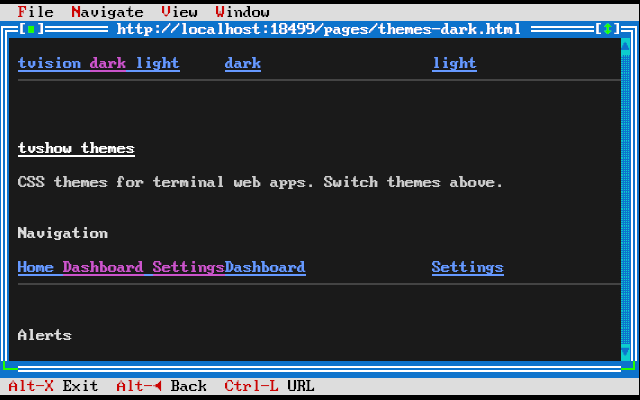
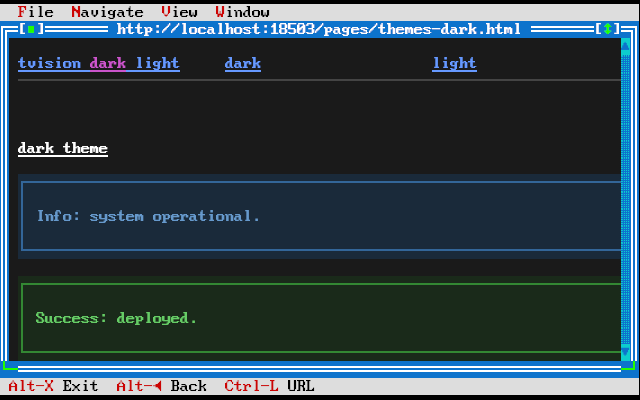
fix: theme demo layout — show alerts above fold, add color verification
Restructured theme showcase to put alerts, cards, buttons above fold
so themes are visually distinct in screenshots. Added integration test
verifying all three themes produce different bg colors. Added color
sample output to capture tool.

diff --git a/server/pages/themes.html b/server/pages/themes.html
@@ -1,7 +1,7 @@
 <!doctype html>
 <html>
 <head>
-<title>Theme showcase — tvision</title>
+<title>Theme: tvision</title>
 <link rel="stylesheet" href="/styles/tvision.css">
 </head>
 <body>
@@ -12,77 +12,37 @@
   <a href="/pages/themes-light.html">light</a>
 </div>
 
-<h1>tvshow themes</h1>
-<p>CSS themes for terminal web apps. Switch themes above.</p>
+<h1>tvision theme</h1>
 
-<h2>Navigation</h2>
-<div class="nav">
-  <a href="#">Home</a>
-  <a href="#">Dashboard</a>
-  <a href="#">Settings</a>
-  <a href="#">Help</a>
-</div>
+<div class="alert alert-info">Info: system operational.</div>
+<div class="alert alert-success">Success: deployed.</div>
+<div class="alert alert-warning">Warning: disk 80%.</div>
+<div class="alert alert-error">Error: DB connection lost.</div>
 
-<h2>Alerts</h2>
-<div class="alert alert-info">Info: system is operating normally.</div>
-<div class="alert alert-success">Success: changes saved.</div>
-<div class="alert alert-warning">Warning: disk usage above 80%.</div>
-<div class="alert alert-error">Error: connection to database lost.</div>
-
-<h2>Cards</h2>
 <div class="row">
   <div class="card grow">
-    <p class="card-title">Server status</p>
-    <p>CPU: 42% | Mem: 2.1G / 8G</p>
+    <p class="card-title">Server</p>
+    <p>CPU 42% | Mem 2.1G</p>
   </div>
   <div class="card grow">
-    <p class="card-title">Deployments</p>
-    <p>Last: 2h ago | Next: pending</p>
+    <p class="card-title">Deploy</p>
+    <p>Last: 2h ago</p>
   </div>
 </div>
 
-<h2>Buttons</h2>
 <div class="row">
   <div class="btn">Default</div>
   <div class="btn btn-primary">Primary</div>
   <div class="btn btn-danger">Danger</div>
 </div>
 
-<h2>Table</h2>
 <table>
 <tr><th>Service</th><th>Status</th><th>Uptime</th></tr>
 <tr><td>API</td><td>Running</td><td>14d 2h</td></tr>
-<tr><td>Worker</td><td>Running</td><td>14d 2h</td></tr>
-<tr><td>Scheduler</td><td>Stopped</td><td>-</td></tr>
+<tr><td>Worker</td><td>Stopped</td><td>-</td></tr>
 </table>
 
-<h2>Form</h2>
-<form action="/echo" method="get">
-  <div class="form-group">
-    <label class="form-label">Username</label>
-    <input type="text" value="">
-  </div>
-  <div class="form-group">
-    <label class="form-label">Role</label>
-    <select>
-      <option value="admin">Admin</option>
-      <option value="user">User</option>
-      <option value="viewer">Viewer</option>
-    </select>
-  </div>
-  <div class="form-group">
-    <input type="checkbox"> Enable notifications
-  </div>
-  <div class="btn btn-primary"><input type="submit" value="Save"></div>
-</form>
-
-<h2>Code</h2>
-<pre>$ tvshow http://localhost:8080/
-Fetching...
-200 OK (text/html, 1.2K)</pre>
-
-<hr>
-<p class="muted center">tvshow theme: tvision</p>
+<pre>$ tvshow http://localhost:8080/</pre>
 
 </body>
 </html>

diff --git a/server/pages/themes-light.html b/server/pages/themes-light.html
@@ -1,7 +1,7 @@
 <!doctype html>
 <html>
 <head>
-<title>Theme showcase — light</title>
+<title>Theme: light</title>
 <link rel="stylesheet" href="/styles/light.css">
 </head>
 <body>
@@ -12,77 +12,37 @@
   <a href="/pages/themes-light.html">light</a>
 </div>
 
-<h1>tvshow themes</h1>
-<p>CSS themes for terminal web apps. Switch themes above.</p>
+<h1>light theme</h1>
 
-<h2>Navigation</h2>
-<div class="nav">
-  <a href="#">Home</a>
-  <a href="#">Dashboard</a>
-  <a href="#">Settings</a>
-  <a href="#">Help</a>
-</div>
+<div class="alert alert-info">Info: system operational.</div>
+<div class="alert alert-success">Success: deployed.</div>
+<div class="alert alert-warning">Warning: disk 80%.</div>
+<div class="alert alert-error">Error: DB connection lost.</div>
 
-<h2>Alerts</h2>
-<div class="alert alert-info">Info: system is operating normally.</div>
-<div class="alert alert-success">Success: changes saved.</div>
-<div class="alert alert-warning">Warning: disk usage above 80%.</div>
-<div class="alert alert-error">Error: connection to database lost.</div>
-
-<h2>Cards</h2>
 <div class="row">
   <div class="card grow">
-    <p class="card-title">Server status</p>
-    <p>CPU: 42% | Mem: 2.1G / 8G</p>
+    <p class="card-title">Server</p>
+    <p>CPU 42% | Mem 2.1G</p>
   </div>
   <div class="card grow">
-    <p class="card-title">Deployments</p>
-    <p>Last: 2h ago | Next: pending</p>
+    <p class="card-title">Deploy</p>
+    <p>Last: 2h ago</p>
   </div>
 </div>
 
-<h2>Buttons</h2>
 <div class="row">
   <div class="btn">Default</div>
   <div class="btn btn-primary">Primary</div>
   <div class="btn btn-danger">Danger</div>
 </div>
 
-<h2>Table</h2>
 <table>
 <tr><th>Service</th><th>Status</th><th>Uptime</th></tr>
 <tr><td>API</td><td>Running</td><td>14d 2h</td></tr>
-<tr><td>Worker</td><td>Running</td><td>14d 2h</td></tr>
-<tr><td>Scheduler</td><td>Stopped</td><td>-</td></tr>
+<tr><td>Worker</td><td>Stopped</td><td>-</td></tr>
 </table>
 
-<h2>Form</h2>
-<form action="/echo" method="get">
-  <div class="form-group">
-    <label class="form-label">Username</label>
-    <input type="text" value="">
-  </div>
-  <div class="form-group">
-    <label class="form-label">Role</label>
-    <select>
-      <option value="admin">Admin</option>
-      <option value="user">User</option>
-      <option value="viewer">Viewer</option>
-    </select>
-  </div>
-  <div class="form-group">
-    <input type="checkbox"> Enable notifications
-  </div>
-  <div class="btn btn-primary"><input type="submit" value="Save"></div>
-</form>
-
-<h2>Code</h2>
-<pre>$ tvshow http://localhost:8080/
-Fetching...
-200 OK (text/html, 1.2K)</pre>
-
-<hr>
-<p class="muted center">tvshow theme: light</p>
+<pre>$ tvshow http://localhost:8080/</pre>
 
 </body>
 </html>

diff --git a/server/pages/themes-dark.html b/server/pages/themes-dark.html
@@ -1,7 +1,7 @@
 <!doctype html>
 <html>
 <head>
-<title>Theme showcase — dark</title>
+<title>Theme: dark</title>
 <link rel="stylesheet" href="/styles/dark.css">
 </head>
 <body>
@@ -12,77 +12,37 @@
   <a href="/pages/themes-light.html">light</a>
 </div>
 
-<h1>tvshow themes</h1>
-<p>CSS themes for terminal web apps. Switch themes above.</p>
+<h1>dark theme</h1>
 
-<h2>Navigation</h2>
-<div class="nav">
-  <a href="#">Home</a>
-  <a href="#">Dashboard</a>
-  <a href="#">Settings</a>
-  <a href="#">Help</a>
-</div>
+<div class="alert alert-info">Info: system operational.</div>
+<div class="alert alert-success">Success: deployed.</div>
+<div class="alert alert-warning">Warning: disk 80%.</div>
+<div class="alert alert-error">Error: DB connection lost.</div>
 
-<h2>Alerts</h2>
-<div class="alert alert-info">Info: system is operating normally.</div>
-<div class="alert alert-success">Success: changes saved.</div>
-<div class="alert alert-warning">Warning: disk usage above 80%.</div>
-<div class="alert alert-error">Error: connection to database lost.</div>
-
-<h2>Cards</h2>
 <div class="row">
   <div class="card grow">
-    <p class="card-title">Server status</p>
-    <p>CPU: 42% | Mem: 2.1G / 8G</p>
+    <p class="card-title">Server</p>
+    <p>CPU 42% | Mem 2.1G</p>
   </div>
   <div class="card grow">
-    <p class="card-title">Deployments</p>
-    <p>Last: 2h ago | Next: pending</p>
+    <p class="card-title">Deploy</p>
+    <p>Last: 2h ago</p>
   </div>
 </div>
 
-<h2>Buttons</h2>
 <div class="row">
   <div class="btn">Default</div>
   <div class="btn btn-primary">Primary</div>
   <div class="btn btn-danger">Danger</div>
 </div>
 
-<h2>Table</h2>
 <table>
 <tr><th>Service</th><th>Status</th><th>Uptime</th></tr>
 <tr><td>API</td><td>Running</td><td>14d 2h</td></tr>
-<tr><td>Worker</td><td>Running</td><td>14d 2h</td></tr>
-<tr><td>Scheduler</td><td>Stopped</td><td>-</td></tr>
+<tr><td>Worker</td><td>Stopped</td><td>-</td></tr>
 </table>
 
-<h2>Form</h2>
-<form action="/echo" method="get">
-  <div class="form-group">
-    <label class="form-label">Username</label>
-    <input type="text" value="">
-  </div>
-  <div class="form-group">
-    <label class="form-label">Role</label>
-    <select>
-      <option value="admin">Admin</option>
-      <option value="user">User</option>
-      <option value="viewer">Viewer</option>
-    </select>
-  </div>
-  <div class="form-group">
-    <input type="checkbox"> Enable notifications
-  </div>
-  <div class="btn btn-primary"><input type="submit" value="Save"></div>
-</form>
-
-<h2>Code</h2>
-<pre>$ tvshow http://localhost:8080/
-Fetching...
-200 OK (text/html, 1.2K)</pre>
-
-<hr>
-<p class="muted center">tvshow theme: dark</p>
+<pre>$ tvshow http://localhost:8080/</pre>
 
 </body>
 </html>

diff --git a/tests/integration/demo_pages_test.cpp b/tests/integration/demo_pages_test.cpp
@@ -3,6 +3,8 @@
 #include "tvshow/layout/types.hpp"
 #include "tvshow/net/cpp_http_client.hpp"
 #include "tvshow/net/http_client.hpp"
+#include "tvshow/render/chargrid.hpp"
+#include "tvshow/render/render.hpp"
 #include "tvshow/util/url.hpp"
 
 #include <doctest/doctest.h>
@@ -31,6 +33,32 @@ TEST_CASE("integration: typography page parses and lays out") {
     auto page = load_page(server.base_url() + "/pages/typography.html", Viewport{80, 24});
     REQUIRE(page.has_value());
     CHECK(page->doc.title == "Typography");
+}
+
+TEST_CASE("integration: theme CSS applies different background colors") {
+    const ServerFixture server;
+    auto tv = load_page(server.base_url() + "/pages/themes.html", Viewport{80, 25});
+    auto dk = load_page(server.base_url() + "/pages/themes-dark.html", Viewport{80, 25});
+    auto lt = load_page(server.base_url() + "/pages/themes-light.html", Viewport{80, 25});
+    REQUIRE(tv.has_value());
+    REQUIRE(dk.has_value());
+    REQUIRE(lt.has_value());
+
+    CHECK(tv->sheets.size() >= 1);
+    CHECK(dk->sheets.size() >= 1);
+    CHECK(lt->sheets.size() >= 1);
+
+    const auto grid_tv = tvshow::render::render(tv->box);
+    const auto grid_dk = tvshow::render::render(dk->box);
+    const auto grid_lt = tvshow::render::render(lt->box);
+
+    const auto bg_tv = grid_tv.at({5, 5}).attr.bg;
+    const auto bg_dk = grid_dk.at({5, 5}).attr.bg;
+    const auto bg_lt = grid_lt.at({5, 5}).attr.bg;
+
+    CHECK(bg_tv != bg_dk);
+    CHECK(bg_tv != bg_lt);
+    CHECK(bg_dk != bg_lt);
 }
 
 TEST_CASE("integration: 404 route renders an internal error page") {

diff --git a/client/src/capture_main.cpp b/client/src/capture_main.cpp
@@ -5,6 +5,7 @@
 #include "tvshow/render/render.hpp"
 
 #include <cstdlib>
+#include <iomanip>
 #include <iostream>
 #include <string>
 
@@ -59,6 +60,22 @@ int main(int argc, char* argv[]) {
         std::cout << '\n';
     }
     std::cout << std::string(static_cast<size_t>(cols), '-') << '\n';
+
+    // Color sample — find first non-space cell per row.
+    std::cout << "Color samples:\n";
+    for (int sr = 0; sr < std::min(grid.rows(), 45); ++sr) {
+        for (int sc = 0; sc < grid.cols(); ++sc) {
+            const auto c = grid.at({sc, sr});
+            if (c.cp > U' ') {
+                std::cout << "  row " << sr << " col " << sc << ": bg=#"
+                          << std::hex << std::setfill('0') << std::setw(6) << c.attr.bg
+                          << " fg=#" << std::setw(6) << c.attr.fg
+                          << " cp=U+" << std::setw(4) << static_cast<unsigned>(c.cp)
+                          << std::dec << '\n';
+                break;
+            }
+        }
+    }
 
     // Link inventory
     if (!links.empty()) {
